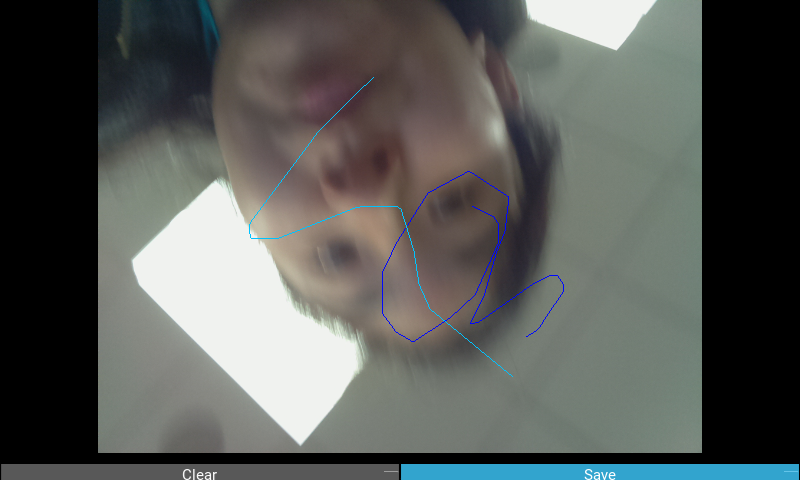
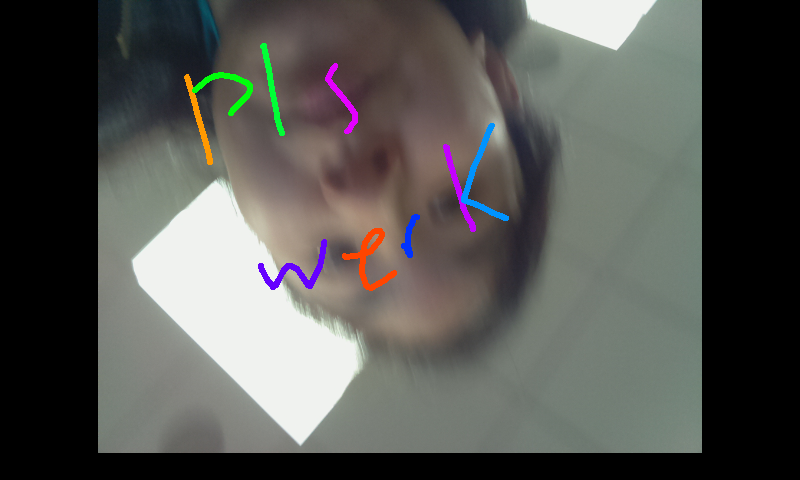
Try again

diff --git a/code/working.py b/code/working.py
@@ -8,6 +8,7 @@ from kivy.graphics import Color, Rectangle
 from kivy.uix.button import Button
 from kivy.graphics import Color, Ellipse, Line
 from kivy.uix.image import Image
+import sys
 
 f = open('/home/pi/Picture-Yo-self/code/pictures/picName.txt','r')
 global picname 
@@ -24,7 +25,7 @@ class MyPaintWidget(Widget):
 		color = (random(), 1, 1)
 		with self.canvas:
 			Color(*color, mode='hsv')
-			touch.ud['line'] = Line(points=(touch.x, touch.y), width=3)
+			touch.ud['line'] = Line(points=(touch.x, touch.y))
 
 	def on_touch_move(self, touch):
 		touch.ud['line'].points += [touch.x, touch.y]
@@ -52,21 +53,21 @@ class MainApp(App):
 		painter = MyPaintWidget()
 
 		# create clear button and save button
-		clearbtn = Button(text='Clear', size_hint=(1,5))
-		savebtn = Button(text='Save', size_hint=(1,5))
-		root.add_widget(self.im)
+		clearbtn = Button(text='Clear')#, size_hint=(1,5))
 		parent.add_widget(clearbtn)
-		parent.add_widget(savebtn)
-		root.add_widget(painter)
 		def clear_canvas(obj):
 			painter.canvas.clear()
 		clearbtn.bind(on_release=clear_canvas)
-		#def save_pic(obj):
+		
+		savebtn = Button(text='Save')#, size_hint=(1,5))
+		def save_pic(obj):
 			#root.remove_widget(parent)
-			#root.export_to_png(email)
-		#savebtn.bind(on_release=save_pic)
+			root.export_to_png(email)
+			app.Exit()
+		savebtn.bind(on_release=save_pic)
+		root.add_widget(self.im)
+		root.add_widget(painter)
 		root.add_widget(c)
-		#root.add_widget(painter)
 		root.add_widget(parent)
 		return root
 		

diff --git a/code/screenshot.py b/code/screenshot.py
@@ -25,7 +25,7 @@ class MyPaintWidget(Widget):
 		color = (random(), 1, 1)
 		with self.canvas:
 			Color(*color, mode='hsv')
-			touch.ud['line'] = Line(points=(touch.x, touch.y))
+			touch.ud['line'] = Line(points=(touch.x, touch.y), width=3)
 
 	def on_touch_move(self, touch):
 		touch.ud['line'].points += [touch.x, touch.y]
@@ -53,16 +53,17 @@ class MainApp(App):
 		painter = MyPaintWidget()
 		
 		# create clear button
-		clearbtn = Button(text='Clear')
+		clearbtn = Button(text='Clear', size_hint=(1,5))
 		parent.add_widget(clearbtn)
 		def clear_canvas(obj):
 			painter.canvas.clear()
 		clearbtn.bind(on_release=clear_canvas)
 		
 		# create save button
-		savebtn = Button(text='Save')
+		savebtn = Button(text='Save', size_hint=(1,5))
 		parent.add_widget(savebtn)
 		def save_pic(obj):
+		  root.remove_widget(parent)
 		  root.export_to_png(email)
 		  app.Exit()
 		savebtn.bind(on_release=save_pic)
